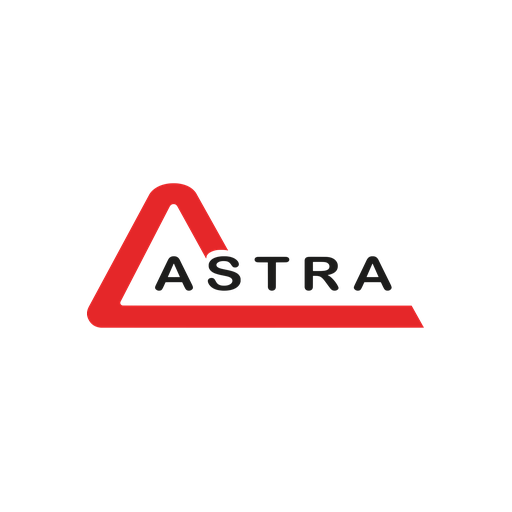
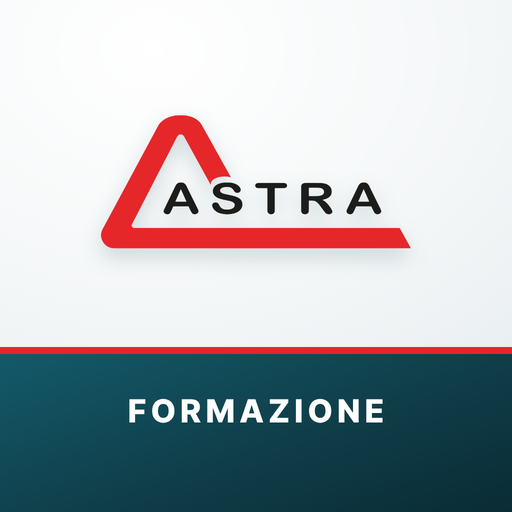
Nuova icona app
Claude-Session: https://claude.ai/code/session_01GZ9H1D3qFR8bz622oAwBr9

diff --git a/index.html b/index.html
@@ -18,9 +18,9 @@
 <meta property="og:description" content="Corsi di sicurezza sul lavoro, ambiente, energia e HACCP in aula, videoconferenza ed e-learning.">
 <meta property="og:type" content="website">
 <meta property="og:locale" content="it_IT">
-<link rel="icon" href="app/favicon-64.png" type="image/png">
+<link rel="icon" href="app/favicon-64.png?v=2" type="image/png">
 <link rel="manifest" href="manifest.webmanifest">
-<link rel="apple-touch-icon" href="app/apple-touch-icon.png">
+<link rel="apple-touch-icon" href="app/apple-touch-icon.png?v=2">
 <meta name="apple-mobile-web-app-capable" content="yes">
 <meta name="mobile-web-app-capable" content="yes">
 <meta name="apple-mobile-web-app-status-bar-style" content="default">
@@ -147,7 +147,7 @@
 </nav>
 
 <div class="installa" id="installa" hidden role="dialog" aria-labelledby="inst-t">
-  <img src="app/icon-192.png" alt="" width="52" height="52">
+  <img src="app/icon-192.png?v=2" alt="" width="52" height="52">
   <div><b id="inst-t">App ASTRA Formazione</b><span id="inst-d">Installare l'app sulla schermata Home per un accesso rapido ai corsi.</span></div>
   <button class="btn btn-rosso btn-s" id="inst-ok" type="button">Installa</button>
   <button class="inst-x" id="inst-x" type="button" aria-label="Chiudi">×</button>
@@ -155,7 +155,7 @@
 
 <div class="guida" id="guida" hidden role="dialog" aria-modal="true" aria-labelledby="guida-t">
   <button class="guida-x" id="guida-x" type="button" aria-label="Chiudi">×</button>
-  <img src="app/icon-192.png" alt="" width="84" height="84" class="guida-ico">
+  <img src="app/icon-192.png?v=2" alt="" width="84" height="84" class="guida-ico">
   <h2 id="guida-t">Installa l'app ASTRA</h2>
   <ol id="guida-passi"></ol>
   <div class="guida-freccia" id="guida-freccia" aria-hidden="true"><svg viewBox="0 0 24 24" fill="none" stroke="currentColor" stroke-width="2.6" stroke-linecap="round" stroke-linejoin="round"><path d="M12 4v16M5 13l7 7 7-7"/></svg></div>

diff --git a/sw.js b/sw.js
@@ -1,5 +1,5 @@
 /* Service worker ASTRA Formazione – © 2026 dr. Jonathan D'Eugenio */
-const V = 'astra-v13';
+const V = 'astra-v14';
 const BASE = ['./', './index.html', './manifest.webmanifest', './assets/app.css', './assets/app.js', './assets/data.js', './assets/listino.js', './assets/foto.js', './fonts/Inter-400.woff2', './fonts/Inter-600.woff2', './fonts/InterTight-800.woff2',
   './loghi/astra_logo.svg', './loghi/aifos_logo.svg', './loghi/jd_logo_bianco.svg', './app/icon-192.png'];
 self.addEventListener('install', e => { e.waitUntil(caches.open(V).then(c => c.addAll(BASE)).then(() => self.skipWaiting())); });
